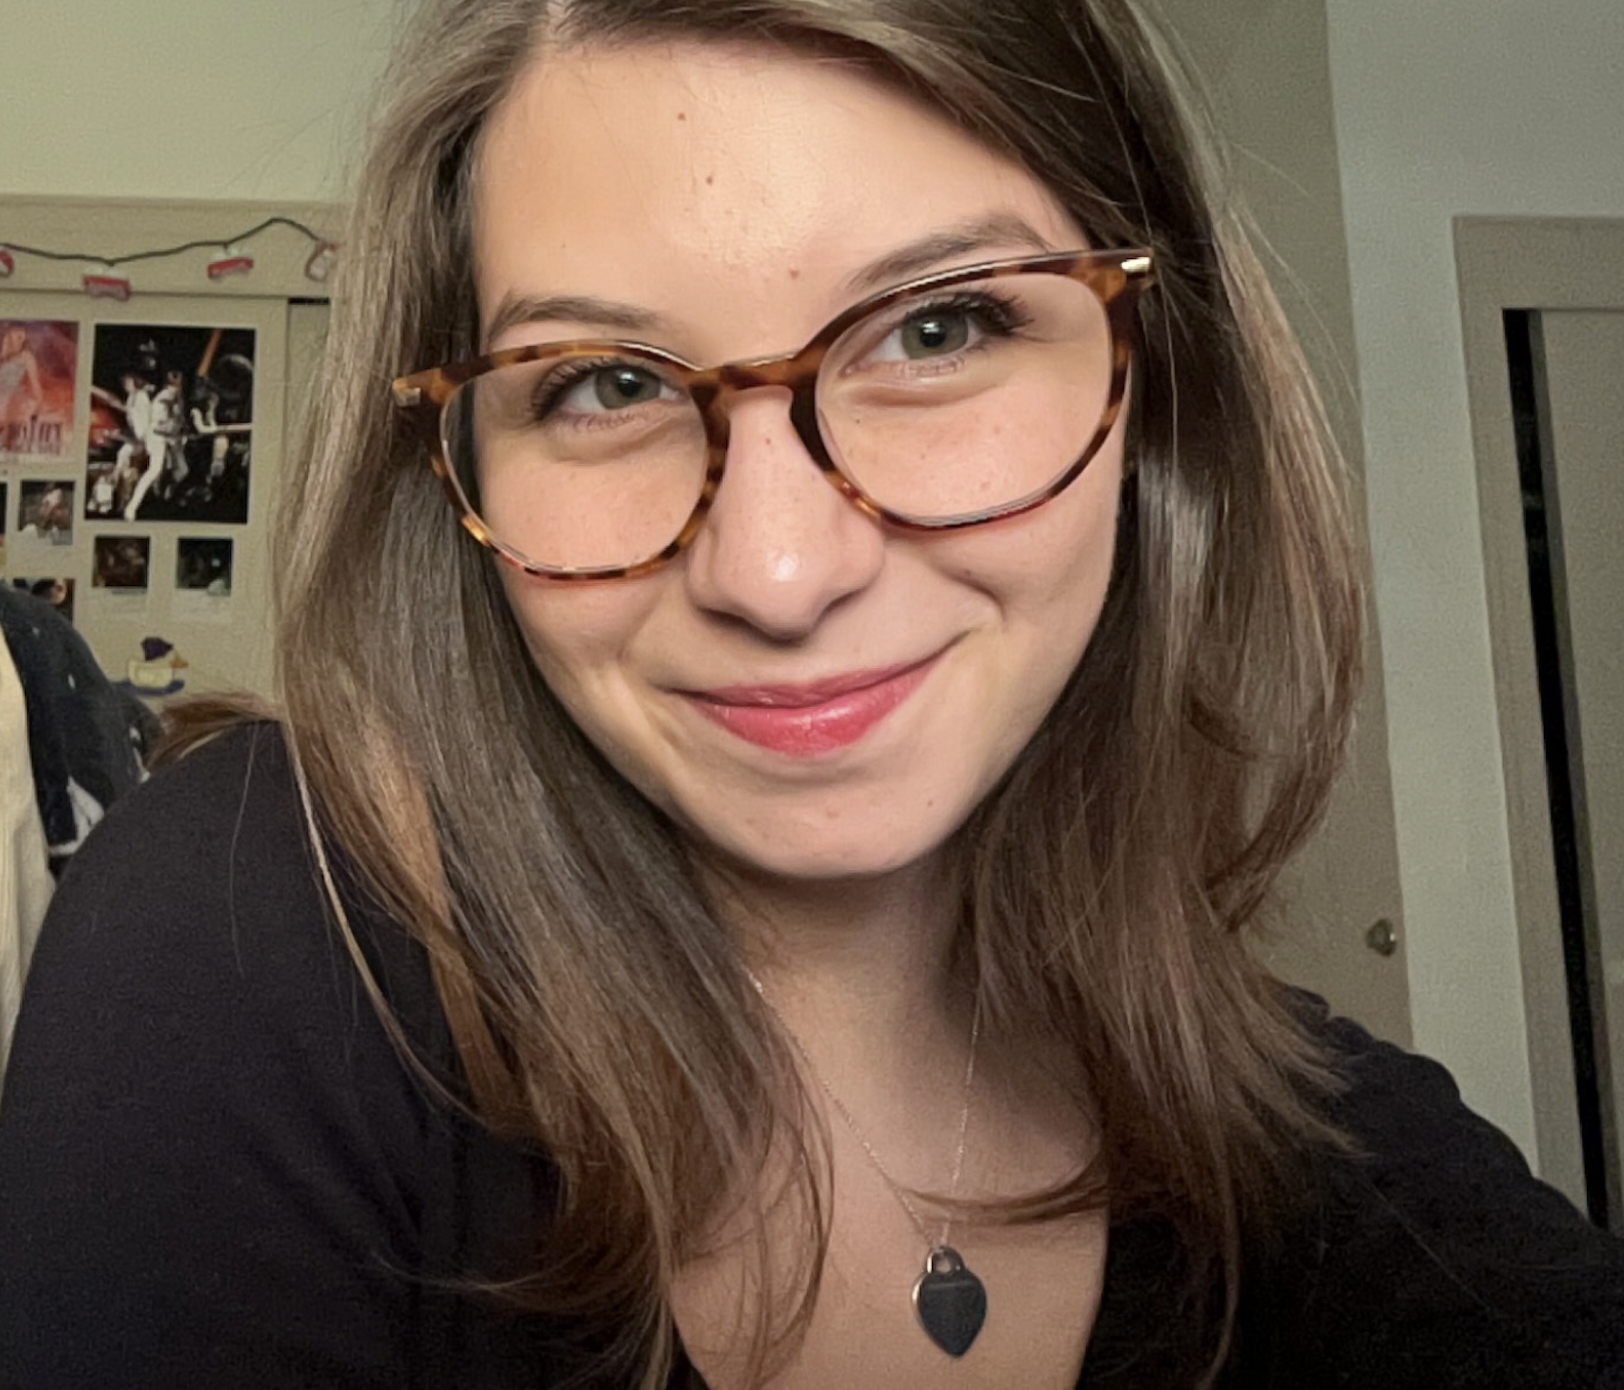
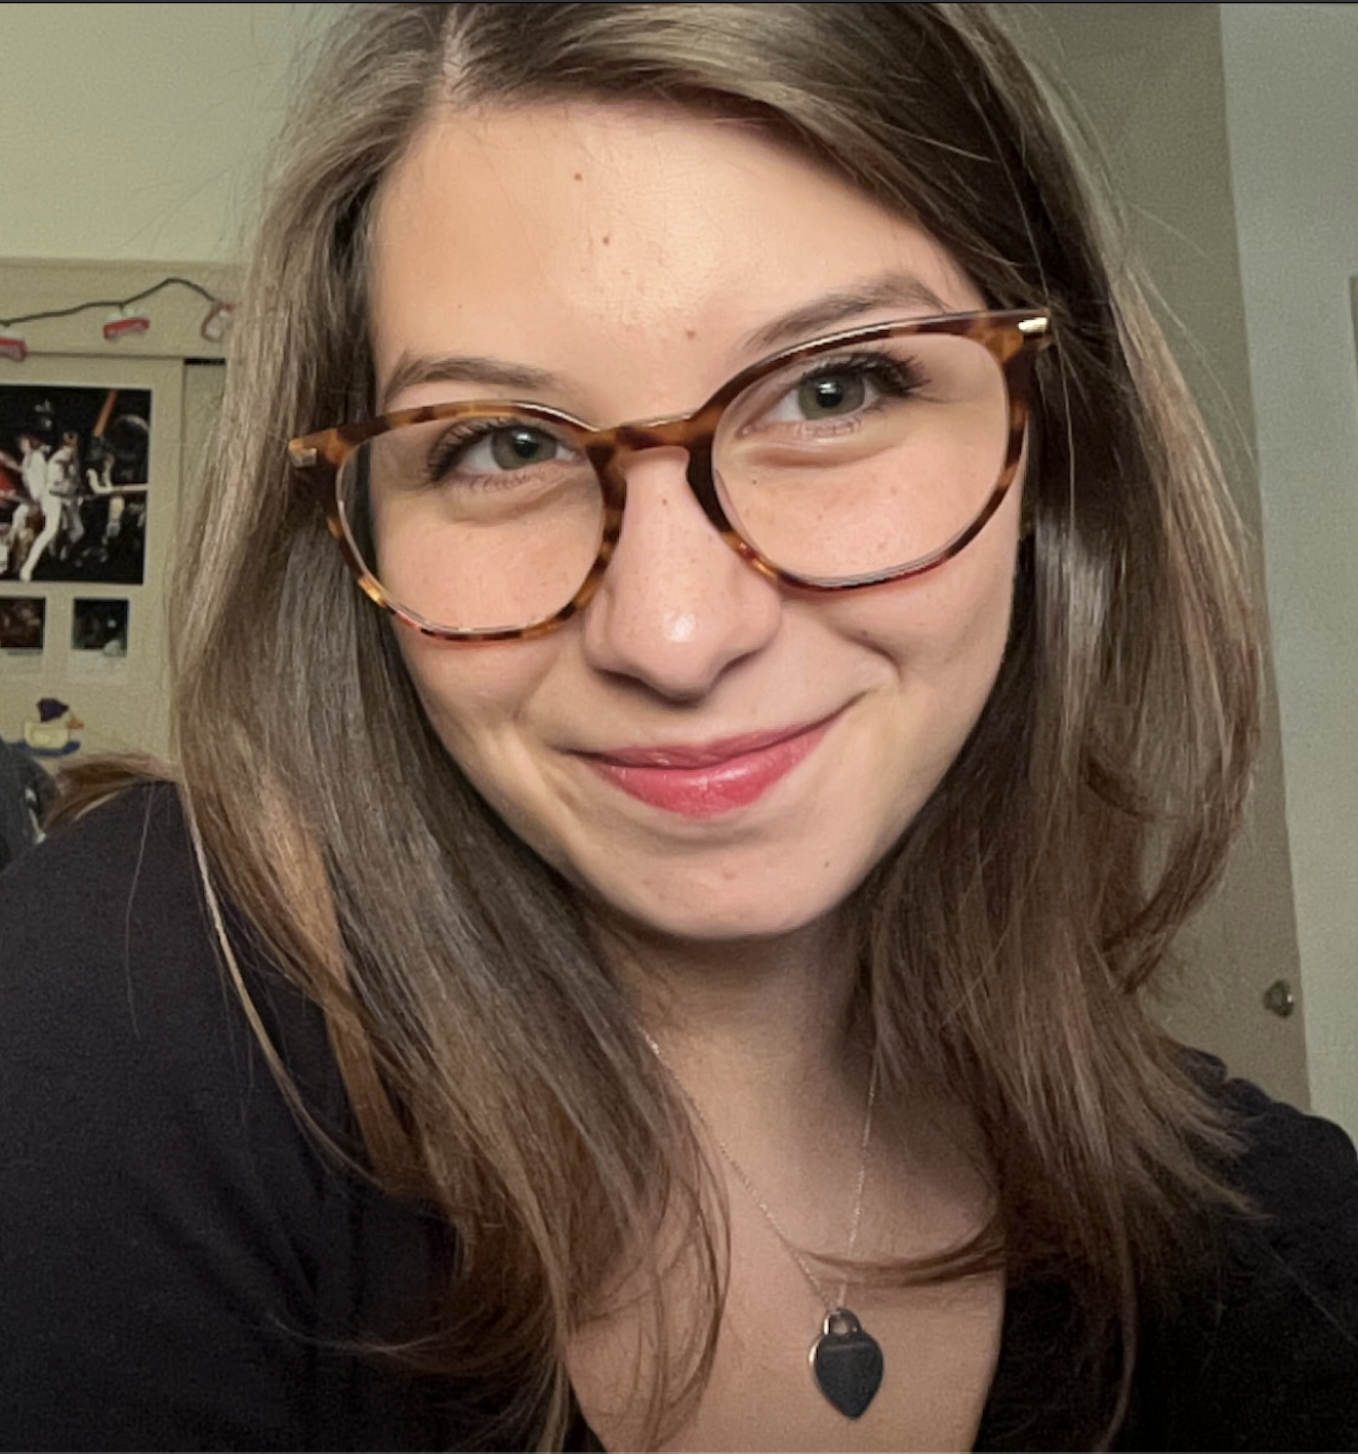
Added pictures & finished layout

diff --git a/src/Components/AboutUsPage.tsx b/src/Components/AboutUsPage.tsx
@@ -1,6 +1,8 @@
 import React from 'react';
 import {Button} from 'react-bootstrap';
 import './AboutUsPage.css';
+import image1 from './ComponentImages/Saieda.jpg';
+import image2 from './ComponentImages/Yaqing.jpg';
 import image3 from './ComponentImages/Amanda.jpg';
 function AboutUs() {
     const goBackHome = () => {
@@ -24,17 +26,21 @@ function AboutUs() {
         <div className = "intro-border">
             <div className = "intro-box">
                 <div className = "picture-box">
+                <img className = "images" src = {image1} alt = ""></img>
                     <p>Saieda Ali Zada</p>
                     <a href = "mailto:saieda@udel.edu">saieda@udel.edu</a>
                 </div>
+                <p className = "intros">**Intro Message Here**</p>
             </div>
         </div>
         <div className = "intro-border">
             <div className = "intro-box">
                 <div className = "picture-box">
+                <img className = "images" src = {image2} alt = ""></img>
                     <p>Yaqing Jiang</p>
                     <a href = "mailto:yaqingj@udel.edu">yaqingj@udel.edu</a>
                 </div>
+                <p className = "intros">**Intro Message Here**</p>
             </div>
         </div>
         <div className = "intro-border">
@@ -44,7 +50,8 @@ function AboutUs() {
                     <p>Amanda Smarr</p>
                     <a href = "mailto:agsmarr@udel.edu">agsmarr@udel.edu</a>
                 </div>
-                <p className = "intros">Hi! I'm Amanda, and I'm a sophomore at UD. I am a CS major with a cybersecurity concentration, and I currently work as an organizer for the HenHacks team!</p>
+                <p className = "intros">Hi! I'm Amanda, and I'm a sophomore at UD. 
+                    I am a CS major with a cybersecurity concentration, and I currently work as an organizer for the HenHacks team!</p>
             </div>
         </div>
     </body>

diff --git a/src/Components/AboutUsPage.css b/src/Components/AboutUsPage.css
@@ -35,14 +35,14 @@
     box-shadow: 8px 8px 20px rgb(174, 174, 174);
 }
 .images {
-    width: 40%;
+    width: 50%;
     height: auto;
     border-radius: 10px;
     box-shadow: 8px 8px 20px rgb(174, 174, 174);
     margin-bottom: 30px;
 }
 .intros {
-    margin-top: 6%;
+    margin-top: 8%;
     margin-right: 3%;
 }
 body {
